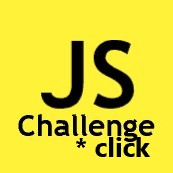
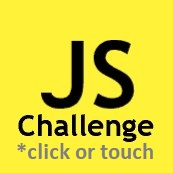
add touch event for cover, clear code

Changed region(s): [[0.3468, 0.6647, 0.896, 0.9249], [0.0867, 0.8092, 0.4046, 0.9249]]

diff --git a/source/js/main/cover.js b/source/js/main/cover.js
@@ -14,11 +14,11 @@
       document.removeEventListener('mousemove', mouseMoveHandler);
       document.removeEventListener('click', closeOverlayHandler);
     }
-  };
+  }
 
   var limits = {
     right: window.innerWidth - CURSOR_WIDTH,
-    bottom: window.innerHeight - CURSOR_WIDTH
+    bottom: window.innerHeight - CURSOR_WIDTH,
   };
 
   function mouseMoveHandler(evt) {
@@ -38,14 +38,14 @@
         cursor.style.top = limits.bottom + 'px';
       }
     }
-  };
+  }
 
   function resetAllInpuns() {
-    var inputs = document.querySelectorAll('input')
+    var inputs = document.querySelectorAll('input');
     inputs.forEach(function (el) {
       el.value = '';
     });
-  };
+  }
 
   function setPageHandler() {
     mainWrap.classList.add('visually-hidden');
@@ -54,9 +54,67 @@
     window.countdown.getDefaultCountdown();
     resetAllInpuns();
     document.addEventListener('mousemove', mouseMoveHandler);
+    document.addEventListener('touchstart', touchStartHandler, false);
+    document.addEventListener('touchmove', touchMoveHandler, false);
+    document.addEventListener('touchend', touchEndHandler, false);
   }
 
   document.addEventListener('DOMContentLoaded', setPageHandler);
   document.addEventListener('click', closeOverlayHandler);
 
+  // ----------------- touch event -----------------
+  var x = 0;
+  var y = 0;
+
+  console.log(x);
+  console.log(y);
+
+  function touchStartHandler(evt) {
+    if (cover.classList.contains('show')) {
+      switch (evt.touches.length) {
+        case 1:
+          console.log('1 touch');
+          x = evt.touches[0].clientX;
+          y = evt.touches[0].clientY;
+          // evt.preventDefault();
+          break;
+        case 2:
+          console.log('2 touches');
+          evt.preventDefault();
+          break;
+        case 3:
+          console.log('3 touches');
+          evt.preventDefault();
+          break;
+        default:
+          console.log('Not supported');
+          evt.preventDefault();
+          break;
+      }
+    }
+  }
+
+  function touchMoveHandler(evt) {
+    if (cover.classList.contains('show')) {
+      if (evt.touches.length === 1) {
+        console.log(`MovingX... ${Math.abs(x - evt.touches[0].clientX)}px`);
+        console.log(`MovingY... ${Math.abs(y - evt.touches[0].clientY)}px`);
+
+        cursor.style.left = `${Math.abs(x - evt.touches[0].clientX)}px`;
+        cursor.style.top = `${Math.abs(y - evt.touches[0].clientY)}px`;
+      }
+    }
+  }
+
+  function touchEndHandler(evt) {
+    if (cover.classList.contains('show')) {
+      console.log('end move');
+      x = 0;
+      y = 0;
+      cover.classList.remove('show');
+      cursor.classList.remove('show');
+      mainWrap.classList.remove('visually-hidden');
+      evt.preventDefault();
+    }
+  }
 })();

diff --git a/source/sass/blocks/list.scss b/source/sass/blocks/list.scss
@@ -138,7 +138,7 @@
 }
 
 .list__item::before {
-  content: ' ';
+  content: " ";
   position: absolute;
   display: inline-block;
   width: 20px;
@@ -160,7 +160,7 @@
 }
 
 .checked::before {
-  content: '';
+  content: "";
   display: inline-block;
   text-align: center;
   box-shadow: inset 0 0 3px rgba($black, 0.4);

diff --git a/source/sass/variables.scss b/source/sass/variables.scss
@@ -1,4 +1,3 @@
-// -------- размеры экрана -----
 $tablet-width: 1023px;
 $mobile-width: 767px;
 
